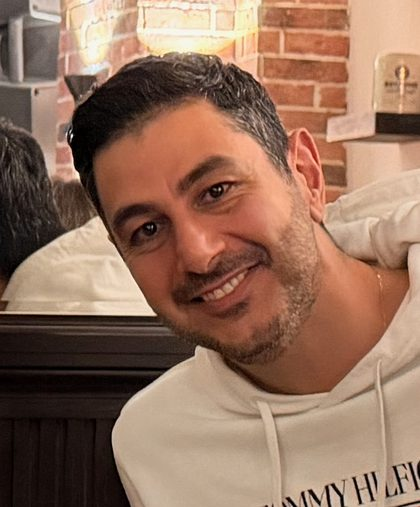
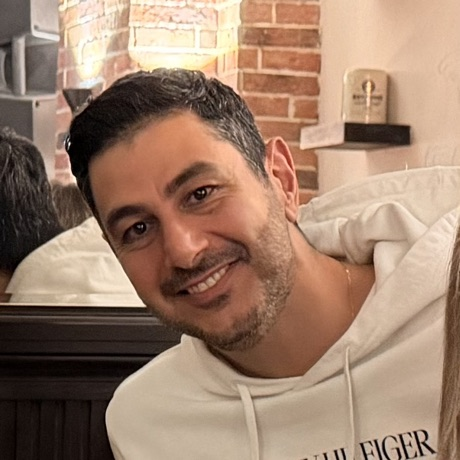
Replace hero photo with a sharper, better-cropped headshot
New source photo cropped to a clean centered square and optimized for
web (460x460 JPEG/WebP), fixing dimension attrs and OG/Twitter image
meta to match.

diff --git a/index.html b/index.html
@@ -12,8 +12,8 @@
 <meta property="og:title" content="Arabo Markarian · DevOps / TechOps Engineer">
 <meta property="og:description" content="Edge, cost, and reliability for high-traffic web platforms. AWS, Cloudflare, WordPress, Terraform.">
 <meta property="og:image" content="https://arabo.dev/me.jpg">
-<meta property="og:image:width" content="420">
-<meta property="og:image:height" content="507">
+<meta property="og:image:width" content="460">
+<meta property="og:image:height" content="460">
 <meta property="og:image:alt" content="Arabo Markarian">
 <meta name="twitter:card" content="summary_large_image">
 <meta name="twitter:title" content="Arabo Markarian · DevOps / TechOps Engineer">
@@ -331,7 +331,7 @@ footer{background:var(--bg2);border-top:1px solid var(--border);padding:28px 0}
         <div class="hero-photo-clip">
           <picture>
             <source srcset="me.webp" type="image/webp">
-            <img src="me.jpg" alt="Arabo Markarian" class="hero-photo" width="420" height="507" decoding="async">
+            <img src="me.jpg" alt="Arabo Markarian" class="hero-photo" width="460" height="460" decoding="async">
           </picture>
         </div>
       </div>
